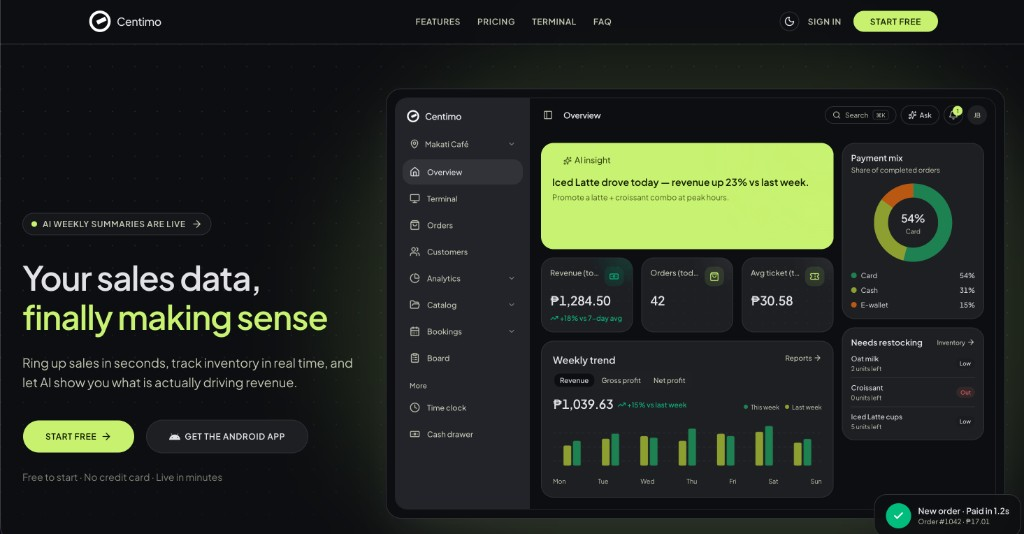
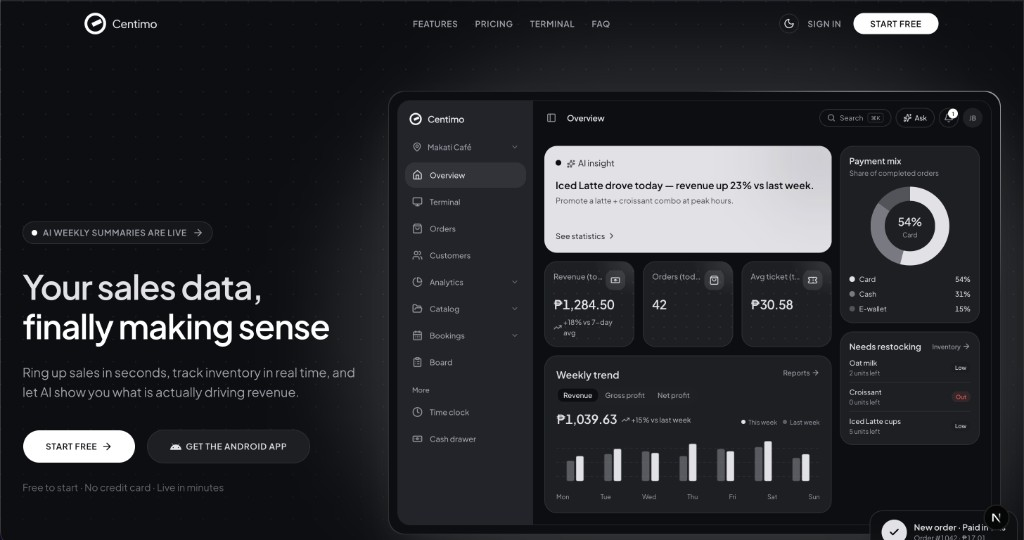
Refactor Portfolio component and update global styles: Adjust skill tile layout for improved responsiveness, enhance mobile handling by dropping sticky positioning, and refine CSS styles for better visual consistency. Update project image for better representation.

diff --git a/app/components/Portfolio.tsx b/app/components/Portfolio.tsx
@@ -175,13 +175,13 @@ const skills: Skill[] = [
 
 function SkillTile({ name, icon: Icon, color }: Skill) {
   return (
-    <div className="group flex items-center gap-3 rounded-2xl border border-white/5 bg-neutral-900/40 px-4 py-3.5 transition-colors duration-300 hover:border-white/10 hover:bg-neutral-800/50">
+    <div className="group flex min-w-0 items-center gap-2 sm:gap-3 rounded-xl sm:rounded-2xl border border-white/5 bg-neutral-900/40 px-2.5 py-2.5 sm:px-4 sm:py-3.5 transition-colors duration-300 hover:border-white/10 hover:bg-neutral-800/50">
       <Icon
-        className="text-2xl shrink-0 transition-transform duration-300 group-hover:scale-110"
+        className="text-xl sm:text-2xl shrink-0 transition-transform duration-300 group-hover:scale-110"
         style={{ color }}
         aria-hidden
       />
-      <span className="text-sm text-stone-300 transition-colors group-hover:text-stone-100">
+      <span className="truncate text-xs sm:text-sm text-stone-300 transition-colors group-hover:text-stone-100">
         {name}
       </span>
     </div>
@@ -406,6 +406,7 @@ const Portfolio = () => {
 
       const track = skillsTrackRef.current;
       if (!track || skillScrollLockRef.current || prefersReducedMotion.matches) return;
+      if (window.matchMedia("(max-width: 767px)").matches) return;
 
       const nextId = skillTabs[getSkillTabIndexFromScroll(track)].id;
       setActiveSkillTab((current) => (current === nextId ? current : nextId));
@@ -439,7 +440,13 @@ const Portfolio = () => {
   const scrollToSkillTab = (tabId: SkillTabId) => {
     setActiveSkillTab(tabId);
     const track = skillsTrackRef.current;
-    if (!track || window.matchMedia("(prefers-reduced-motion: reduce)").matches) return;
+    if (
+      !track ||
+      window.matchMedia("(prefers-reduced-motion: reduce)").matches ||
+      window.matchMedia("(max-width: 767px)").matches
+    ) {
+      return;
+    }
 
     const index = skillTabs.findIndex((tab) => tab.id === tabId);
     const { top, scrollable } = getSkillTrackMetrics(track);
@@ -832,23 +839,23 @@ const Portfolio = () => {
             className="skills-pin-track relative"
             style={{ "--skill-tab-count": skillTabs.length } as React.CSSProperties}
           >
-            <div className="skills-pin-inner sticky top-0 z-20 flex h-dvh flex-col bg-[#0a0a0a] px-6 pb-8 pt-24 md:pt-28">
+            <div className="skills-pin-inner relative z-20 flex h-auto flex-col bg-[#0a0a0a] px-4 pb-10 pt-20 md:sticky md:top-0 md:h-dvh md:px-6 md:pb-8 md:pt-28">
               <div className="pointer-events-none absolute inset-0 grid-pattern opacity-50" />
               <div className="relative z-10 mx-auto flex h-full min-h-0 w-full max-w-7xl flex-col">
-                <div className="mb-6 shrink-0 text-center md:mb-10">
-                  <span className="text-xs font-medium uppercase tracking-[0.3em] text-stone-500 mb-4 block reveal">
+                <div className="mb-4 shrink-0 text-center md:mb-10">
+                  <span className="text-xs font-medium uppercase tracking-[0.3em] text-stone-500 mb-3 md:mb-4 block reveal">
                     Tech Stack
                   </span>
-                  <h2 className="text-4xl md:text-5xl lg:text-6xl font-bold tracking-tight reveal stagger-1">
+                  <h2 className="text-3xl sm:text-4xl md:text-5xl lg:text-6xl font-bold tracking-tight reveal stagger-1">
                     Tools I <span className="gradient-text">work with</span>
                   </h2>
-                  <p className="mt-5 text-stone-500 font-light leading-relaxed max-w-xl mx-auto reveal stagger-2">
+                  <p className="mt-3 md:mt-5 text-sm md:text-base text-stone-500 font-light leading-relaxed max-w-xl mx-auto reveal stagger-2">
                     The web engineering toolkit — from the interface to APIs, data, testing, and deploy.
                   </p>
                 </div>
 
                 <div className="flex min-h-0 flex-1 flex-col reveal stagger-3">
-                  <div className="mb-6 flex shrink-0 justify-center md:mb-8">
+                  <div className="mb-4 flex shrink-0 justify-center md:mb-8">
                     <div
                       role="tablist"
                       aria-label="Skill categories"
@@ -870,7 +877,7 @@ const Portfolio = () => {
                               skillTabRefs.current[tab.id] = node;
                             }}
                             onClick={() => scrollToSkillTab(tab.id)}
-                            className={`shrink-0 px-4 py-2 rounded-xl text-sm font-medium transition-all duration-300 focus-visible:outline-none focus-visible:ring-2 focus-visible:ring-stone-400 ${
+                            className={`shrink-0 px-3 py-1.5 md:px-4 md:py-2 rounded-xl text-xs md:text-sm font-medium transition-all duration-300 focus-visible:outline-none focus-visible:ring-2 focus-visible:ring-stone-400 ${
                               isActive
                                 ? "bg-white text-neutral-950"
                                 : "text-stone-400 hover:text-stone-200"
@@ -887,14 +894,14 @@ const Portfolio = () => {
                     id={`skill-panel-${activeSkillGroup.id}`}
                     role="tabpanel"
                     aria-labelledby={`skill-tab-${activeSkillGroup.id}`}
-                    className="glass card-shine min-h-0 flex-1 overflow-y-auto rounded-3xl p-6 sm:p-8 md:p-10"
+                    className="glass card-shine min-h-0 flex-1 overflow-visible rounded-2xl p-4 sm:rounded-3xl sm:p-8 md:overflow-y-auto md:p-10"
                   >
-                    <div className="flex flex-col sm:flex-row sm:items-end sm:justify-between gap-3 mb-8">
+                    <div className="flex flex-col sm:flex-row sm:items-end sm:justify-between gap-2 sm:gap-3 mb-5 md:mb-8">
                       <div>
-                        <h3 className="text-2xl font-semibold text-stone-100 tracking-tight">
+                        <h3 className="text-xl md:text-2xl font-semibold text-stone-100 tracking-tight">
                           {activeSkillGroup.label}
                         </h3>
-                        <p className="text-stone-500 font-light mt-2 max-w-xl">
+                        <p className="text-sm md:text-base text-stone-500 font-light mt-1.5 md:mt-2 max-w-xl">
                           {activeSkillGroup.description}
                         </p>
                       </div>
@@ -904,7 +911,7 @@ const Portfolio = () => {
                     </div>
                     <div
                       key={activeSkillGroup.id}
-                      className="grid grid-cols-2 sm:grid-cols-3 lg:grid-cols-4 gap-3 animate-fade-in"
+                      className="grid grid-cols-2 sm:grid-cols-3 lg:grid-cols-4 gap-2 sm:gap-3 animate-fade-in"
                     >
                       {visibleSkills.map((skill) => (
                         <SkillTile key={skill.name} {...skill} />

diff --git a/app/globals.css b/app/globals.css
@@ -368,6 +368,19 @@ body {
   height: calc(100dvh + (var(--skill-tab-count, 6) - 1) * 80dvh);
 }
 
+/* Mobile: drop sticky pin so the tools grid isn't clipped by the viewport. */
+@media (max-width: 767px) {
+  .skills-pin-track {
+    height: auto;
+  }
+
+  .skills-pin-inner {
+    position: relative;
+    height: auto;
+    min-height: 0;
+  }
+}
+
 @media (prefers-reduced-motion: reduce) {
   html {
     scroll-behavior: auto;
@@ -400,5 +413,11 @@ body {
     position: relative;
     height: auto;
     min-height: 100dvh;
+  }
+
+  @media (max-width: 767px) {
+    .skills-pin-inner {
+      min-height: 0;
+    }
   }
 }
